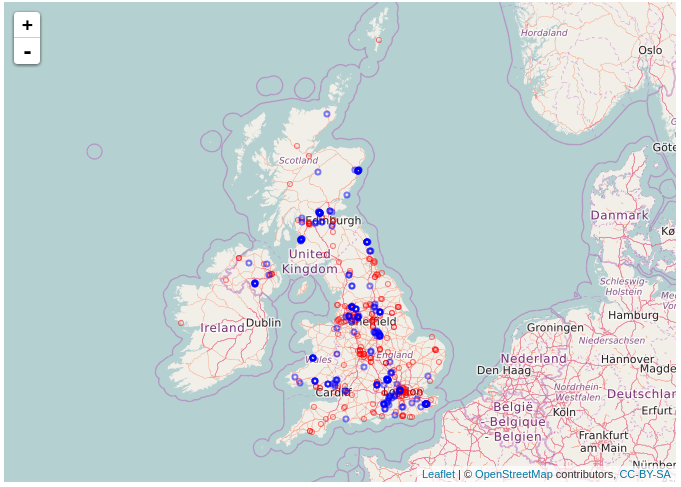
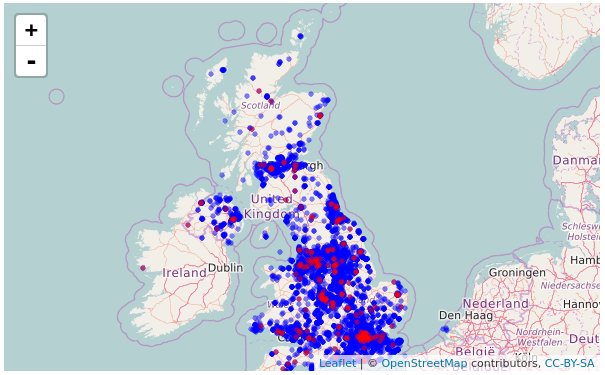
Updates: 1. changed travis and codecov path to link to ropenscilabs 2. leaflet image (some stations were not displayed previously, due to the presence of NA in Latitude/Longitude fields)

diff --git a/README.md b/README.md
@@ -21,7 +21,7 @@ rdefra: Interact with the UK AIR Pollution Database from DEFRA
 
 [![DOI](https://zenodo.org/badge/9118/kehraProject/rdefra.svg)](https://zenodo.org/badge/latestdoi/9118/kehraProject/rdefra) [![status](http://joss.theoj.org/papers/57058f6e8a511f3bb0667ef7687cc87d/status.svg)](http://joss.theoj.org/papers/57058f6e8a511f3bb0667ef7687cc87d)
 
-[![Build Status](https://travis-ci.org/kehraProject/rdefra.svg)](https://travis-ci.org/kehraProject/rdefra.svg?branch=master) [![codecov.io](https://codecov.io/gh/kehraProject/rdefra/coverage.svg?branch=master)](https://codecov.io/gh/kehraProject/rdefra?branch=master)
+[![Build Status](https://travis-ci.org/ropenscilabs/rdefra.svg)](https://travis-ci.org/ropenscilabs/rdefra.svg?branch=master) [![codecov.io](https://codecov.io/gh/ropenscilabs/rdefra/coverage.svg?branch=master)](https://codecov.io/gh/ropenscilabs/rdefra?branch=master)
 
 [![CRAN Status Badge](http://www.r-pkg.org/badges/version/rdefra)](https://cran.r-project.org/package=rdefra) [![CRAN Total Downloads](http://cranlogs.r-pkg.org/badges/grand-total/rdefra)](https://cran.r-project.org/package=rdefra) [![CRAN Monthly Downloads](http://cranlogs.r-pkg.org/badges/rdefra)](https://cran.r-project.org/package=rdefra)
 
@@ -228,18 +228,21 @@ Applications
 In the raw catalogue, 3807 stations contain valid coordinates. After scraping DEFRA's web pages, the number of stations with valid coordinates rises to 6567. In the figure below, blue circles show all the stations with valid coordinates, while red circles show stations with available hourly data.
 
 ``` r
+# Remove stations with no coordinates
+stations <- stations[-which(is.na(stations$Longitude) | is.na(stations$Latitude)),]
+# Get index for stations for which hourly data is available
 stations_with_Hdata <- which(!is.na(stations$SiteID))
 
 library('leaflet')
 leaflet(data = stations) %>% addTiles() %>% 
-  addCircleMarkers(lng = ~Longitude[stations_with_Hdata], 
-                   lat = ~Latitude[stations_with_Hdata], 
-                   radius = 0.5, color='red', 
-                   popup = ~SiteID[stations_with_Hdata]) %>%
   addCircleMarkers(lng = ~Longitude, 
                    lat = ~Latitude,  
                    popup = ~SiteID,
-                   radius = 1, color='blue', fill = FALSE)
+                   radius = 0.1, color='blue', fill = FALSE) %>%
+  addCircleMarkers(lng = ~Longitude[stations_with_Hdata], 
+                   lat = ~Latitude[stations_with_Hdata], 
+                   radius = 0.1, color='red', 
+                   popup = ~SiteID[stations_with_Hdata])
 ```
 
 ![](README_files/leaflet.png)
